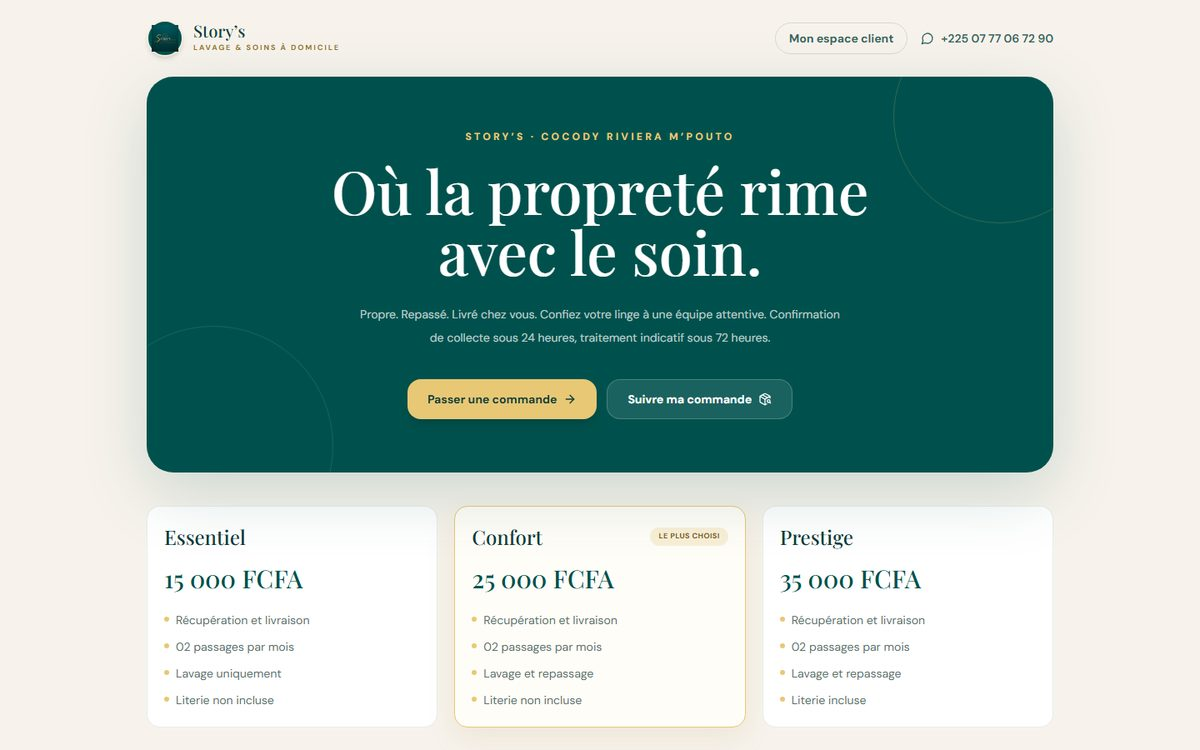
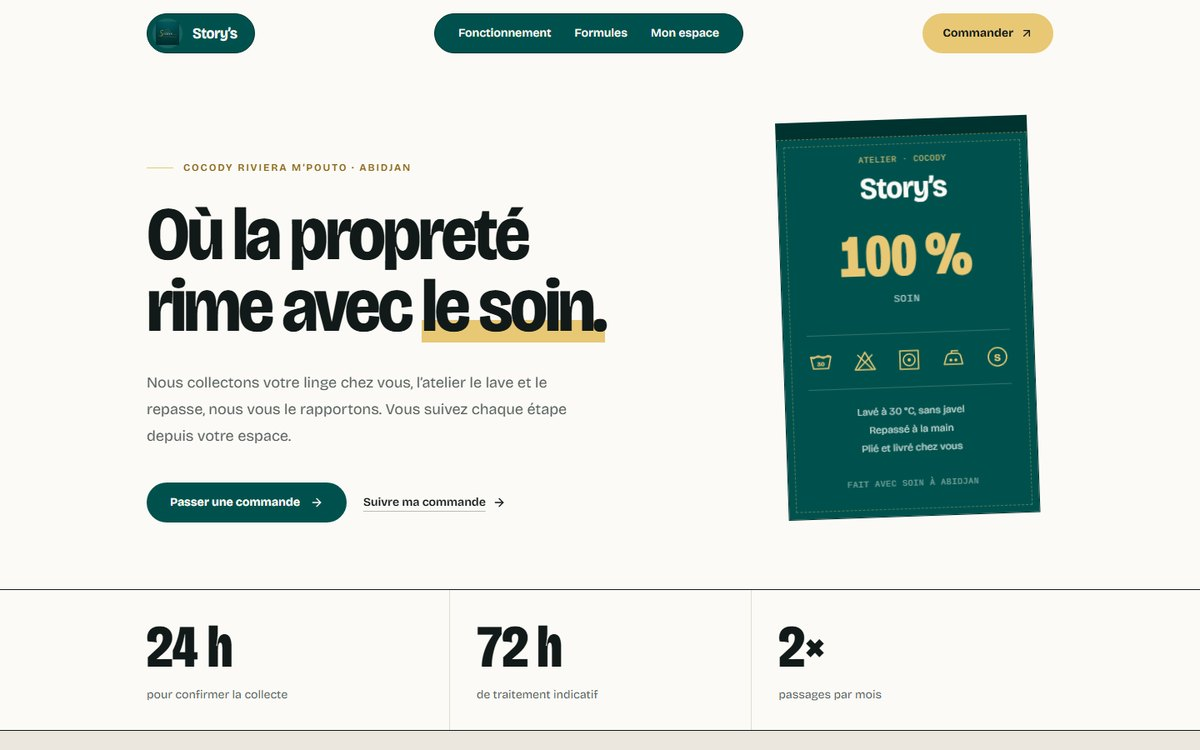
Nouvelle capture de Story's et portfolio ajouté comme 9e projet
- Capture de la refonte du site Story's en ligne
- Fiche, page projet et ligne sans JavaScript pour le portfolio lui-même
- Compteurs passés à 09

diff --git a/data.js b/data.js
@@ -83,7 +83,7 @@ export const PROJECTS = [
     status: "En ligne",
     year: "2026",
     short: "Application web pour gérer les collectes de linge, suivre les commandes, organiser les créneaux et coordonner l’activité d’une blanchisserie à domicile.",
-    image: { src: "img/storys.jpg", url: "storys-blanchisserie.vercel.app", caption: "Page d’accueil du site en ligne", position: "center top", alt: "Page d’accueil du site Story’s" },
+    image: { src: "img/storys.jpg?v=2", url: "storys-blanchisserie.vercel.app", caption: "Page d’accueil du site en ligne", position: "center top", alt: "Page d’accueil du site Story’s" },
     site: "https://storys-blanchisserie.vercel.app/",
     github: "https://github.com/YvanOssey/storys-blanchisserie",
     intro: "Une plateforme métier pour coordonner les collectes, les commandes et les tournées d’une blanchisserie à domicile.",
@@ -170,6 +170,26 @@ export const PROJECTS = [
     features: ["Présentation des équipes et des activités", "Mise en avant des événements et actualités", "Formulaire de contact pour les échanges avec le club"],
     architecture: [["Interface", "HTML5 et CSS3"], ["Interactions", "JavaScript ES6+"], ["Contact", "Formspree"], ["Responsive", "Consultation mobile et desktop"]],
     role: "Conception des maquettes, développement des pages institutionnelles, intégration du formulaire et adaptation responsive.",
+  },
+  {
+    slug: "portfolio",
+    kinds: ["web"],
+    title: "Portfolio",
+    type: "Site personnel en carnet d’ingénieur",
+    status: "En ligne",
+    year: "2026",
+    short: "Le site que vous parcourez : un carnet de travail qu’on manipule, avec des fiches à lancer, des projets qui s’empilent et un mode sombre, sans aucun framework.",
+    image: { src: "img/portfolio.jpg?v=1", url: "yvanossey-dev.vercel.app", caption: "Page d’accueil du site en ligne", position: "center top", alt: "Page d’accueil du portfolio de Yvan Ossey" },
+    site: "https://yvanossey-dev.vercel.app/",
+    github: "https://github.com/YvanOssey/portfolio-yvan-ossey",
+    intro: "Un portfolio qui se feuillette comme un carnet : on attrape les fiches, on fait défiler les projets, on tape sur le clavier de la stack.",
+    description: "Plutôt qu’un modèle générique, le site reprend les codes d’un carnet de travail : papier quadrillé, surligneur, écriture manuscrite et tampons. Chaque section a son interaction : des fiches bristol qu’on lance, une rangée de projets qui s’empile au défilement, une stack présentée en clavier et un contact en carte postale. Le tout tient en HTML, CSS et JavaScript, sans framework ni étape de build.",
+    stack: ["HTML5", "CSS3", "JavaScript ES6+", "Vercel"],
+    signature: "Un carnet qu’on feuillette plutôt qu’un CV qu’on lit.",
+    audiences: "Recruteurs, clients et partenaires qui veulent découvrir mes projets, mon parcours, et me contacter rapidement.",
+    features: ["Fiches projets à attraper et à lancer, au doigt comme à la souris", "Rangée de projets qui s’empile au défilement", "Stack en clavier : chaque touche montre les projets qui l’utilisent", "Contact en carte postale, envoyé par e-mail ou WhatsApp", "Mode sombre, pages projet détaillées et version lisible sans JavaScript"],
+    architecture: [["Interface", "HTML5 et CSS3 (variables, grilles, animations)"], ["Interactions", "JavaScript ES6+ en modules, sans framework"], ["Navigation", "Routage par ancre et transitions entre pages"], ["Hébergement", "Vercel, site statique sans build"], ["Performance", "Images compressées, cache et en-têtes de sécurité"]],
+    role: "Direction artistique, conception des interactions, développement, captures des projets, logo et mise en ligne.",
   },
 ];
 

diff --git a/index.html b/index.html
@@ -74,7 +74,7 @@
           <a class="text-link" href="cv/CV_Yvan_Ossey.pdf" download="CV_Yvan_Ossey.pdf">Télécharger le PDF ↓</a>
         </div>
         <dl class="ruler">
-          <div><dt>Projets</dt><dd>08</dd></div>
+          <div><dt>Projets</dt><dd>09</dd></div>
           <div><dt>Formation</dt><dd>L3<small>MIAGE</small></dd></div>
           <div><dt>Hackathon</dt><dd>1<sup>er</sup><small>prix</small></dd></div>
         </dl>
@@ -89,7 +89,7 @@
         <div class="deck" id="deck"></div>
         <div class="deck-ctrl">
           <button class="sq" id="prev" type="button" aria-label="Fiche précédente">←</button>
-          <p class="deck-count"><span id="deck-count">01 / 08</span></p>
+          <p class="deck-count"><span id="deck-count">01 / 09</span></p>
           <button class="sq" id="next" type="button" aria-label="Fiche suivante">→</button>
         </div>
       </div>
@@ -111,6 +111,7 @@
           <li><b>EduScan</b> — gestion de scolarité par QR code · Flutter, Supabase</li>
           <li><b>OBVX</b> — boutique e-commerce · HTML, CSS, JavaScript · <a href="https://github.com/YvanOssey/obvx">GitHub</a></li>
           <li><b>OBC &amp; AEC</b> — sites de clubs sportifs · HTML, CSS, JavaScript · <a href="https://github.com/YvanOssey/Athl-tic-Elite-Club">GitHub</a></li>
+          <li><b>Portfolio</b> — ce site, carnet d’ingénieur sans framework · HTML, CSS, JavaScript · <a href="https://github.com/YvanOssey/portfolio-yvan-ossey">GitHub</a></li>
         </ol>
         <p class="nojs-contact">Me contacter : <a href="mailto:yvanossey6@gmail.com">yvanossey6@gmail.com</a> · <a href="tel:+2250767214818">+225 07 67 21 48 18</a> · <a href="cv/CV_Yvan_Ossey.pdf">mon CV (PDF)</a></p>
       </section>
@@ -121,7 +122,7 @@
         <header class="pile-head">
           <p class="label">§ 01 — Index</p>
           <h2 id="index-title">Tous les projets, <mark class="hl">l’un sur l’autre</mark>.</h2>
-          <div class="pile-meta" aria-hidden="true"><span id="pile-count">01 / 08</span><span class="pile-bar"><i id="pile-bar"></i></span></div>
+          <div class="pile-meta" aria-hidden="true"><span id="pile-count">01 / 09</span><span class="pile-bar"><i id="pile-bar"></i></span></div>
         </header>
         <ol class="pile-track" id="pile-track"></ol>
       </div>
@@ -326,6 +327,6 @@
 
   <div class="wipe" id="wipe" aria-hidden="true"><span id="wipe-title"></span></div>
 
-  <script type="module" src="main.js?v=123"></script>
+  <script type="module" src="main.js?v=124"></script>
 </body>
 </html>

diff --git a/main.js b/main.js
@@ -1,4 +1,4 @@
-import { PROJECTS, SKILLS } from "./data.js?v=122";
+import { PROJECTS, SKILLS } from "./data.js?v=124";
 
 document.documentElement.classList.add("js");
 const reduced = matchMedia("(prefers-reduced-motion: reduce)").matches;
@@ -36,6 +36,8 @@ function setTheme(theme, save = true) {
   const x = r.left + r.width / 2, y = r.top + r.height / 2;
   const radius = Math.hypot(Math.max(x, innerWidth - x), Math.max(y, innerHeight - y));
   const vt = document.startViewTransition(apply);
+  vt.finished.catch(() => {});
+  vt.updateCallbackDone?.catch(() => {});
   // filet de sécurité : si le navigateur ne lance jamais la transition, on applique quand même
   setTimeout(() => { if (root.dataset.theme !== theme) { vt.skipTransition?.(); apply(); } }, 500);
   vt.ready.then(() => {
